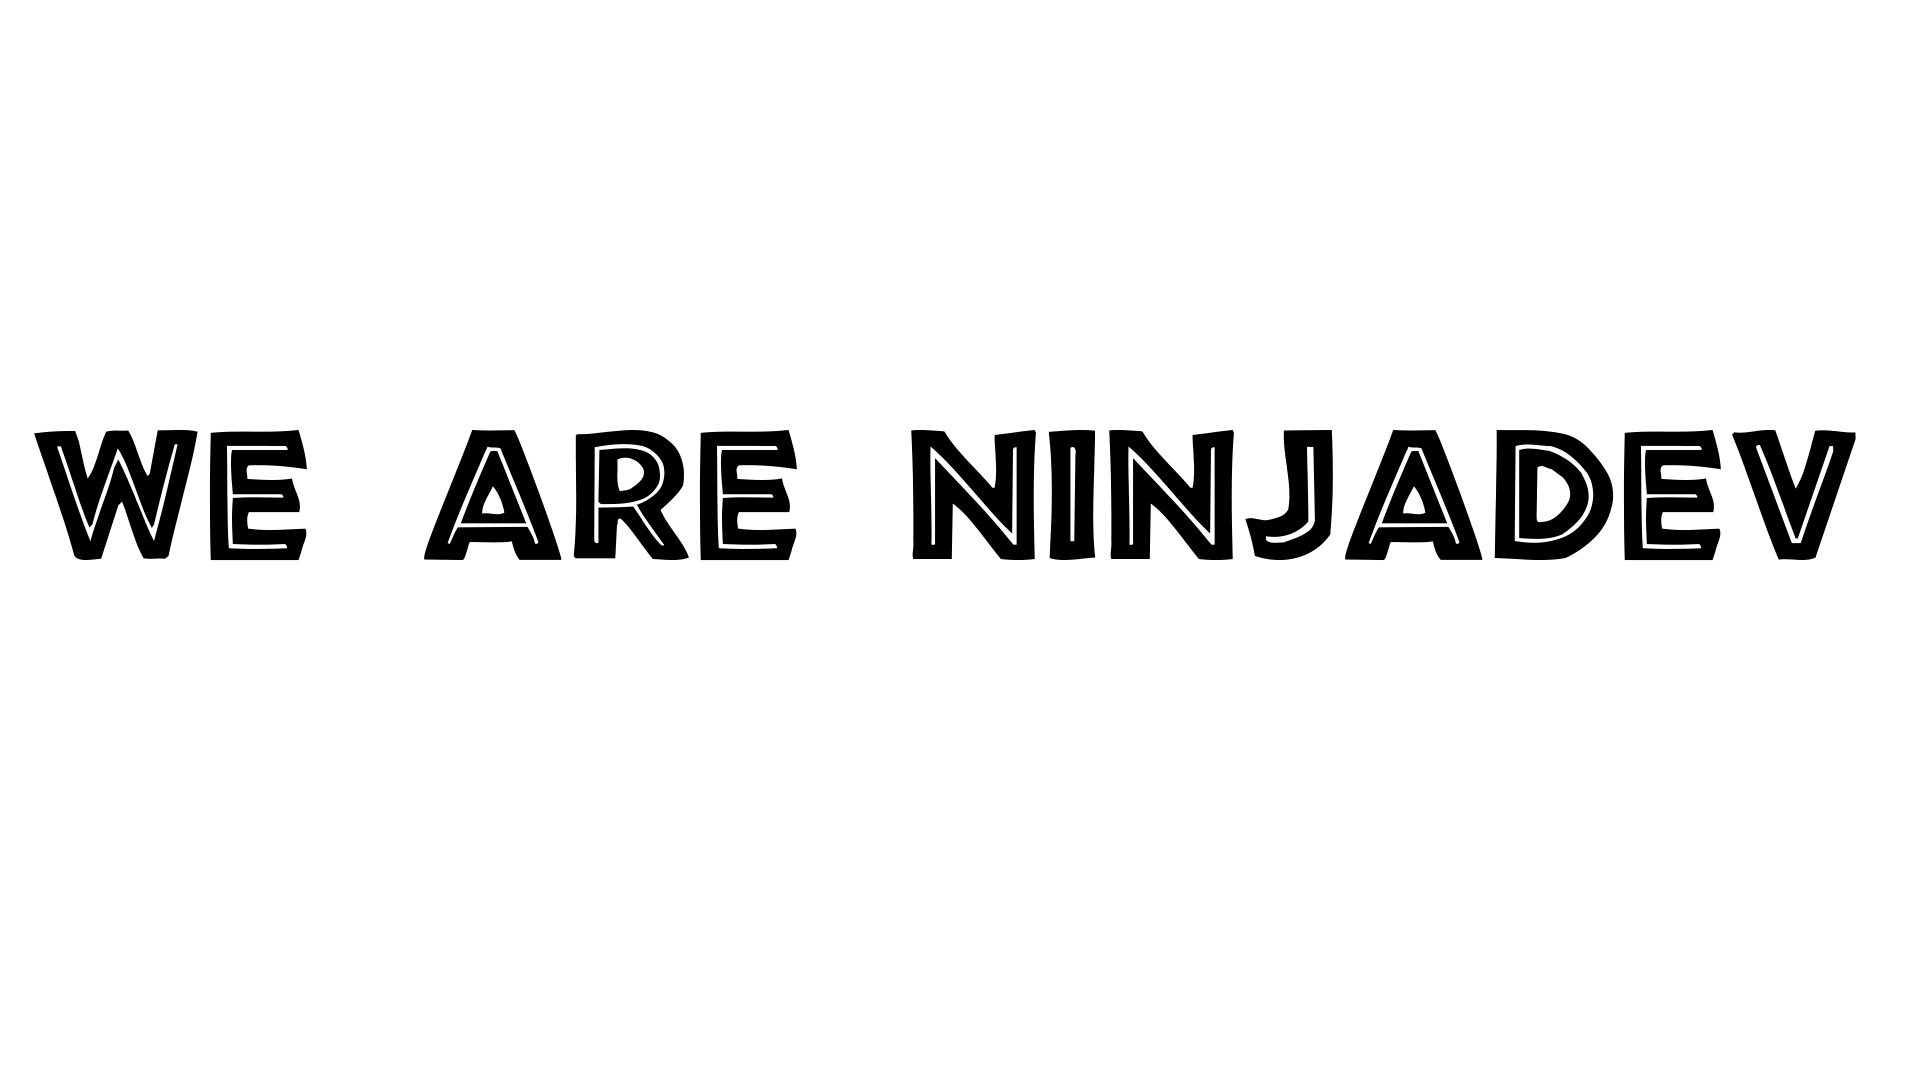
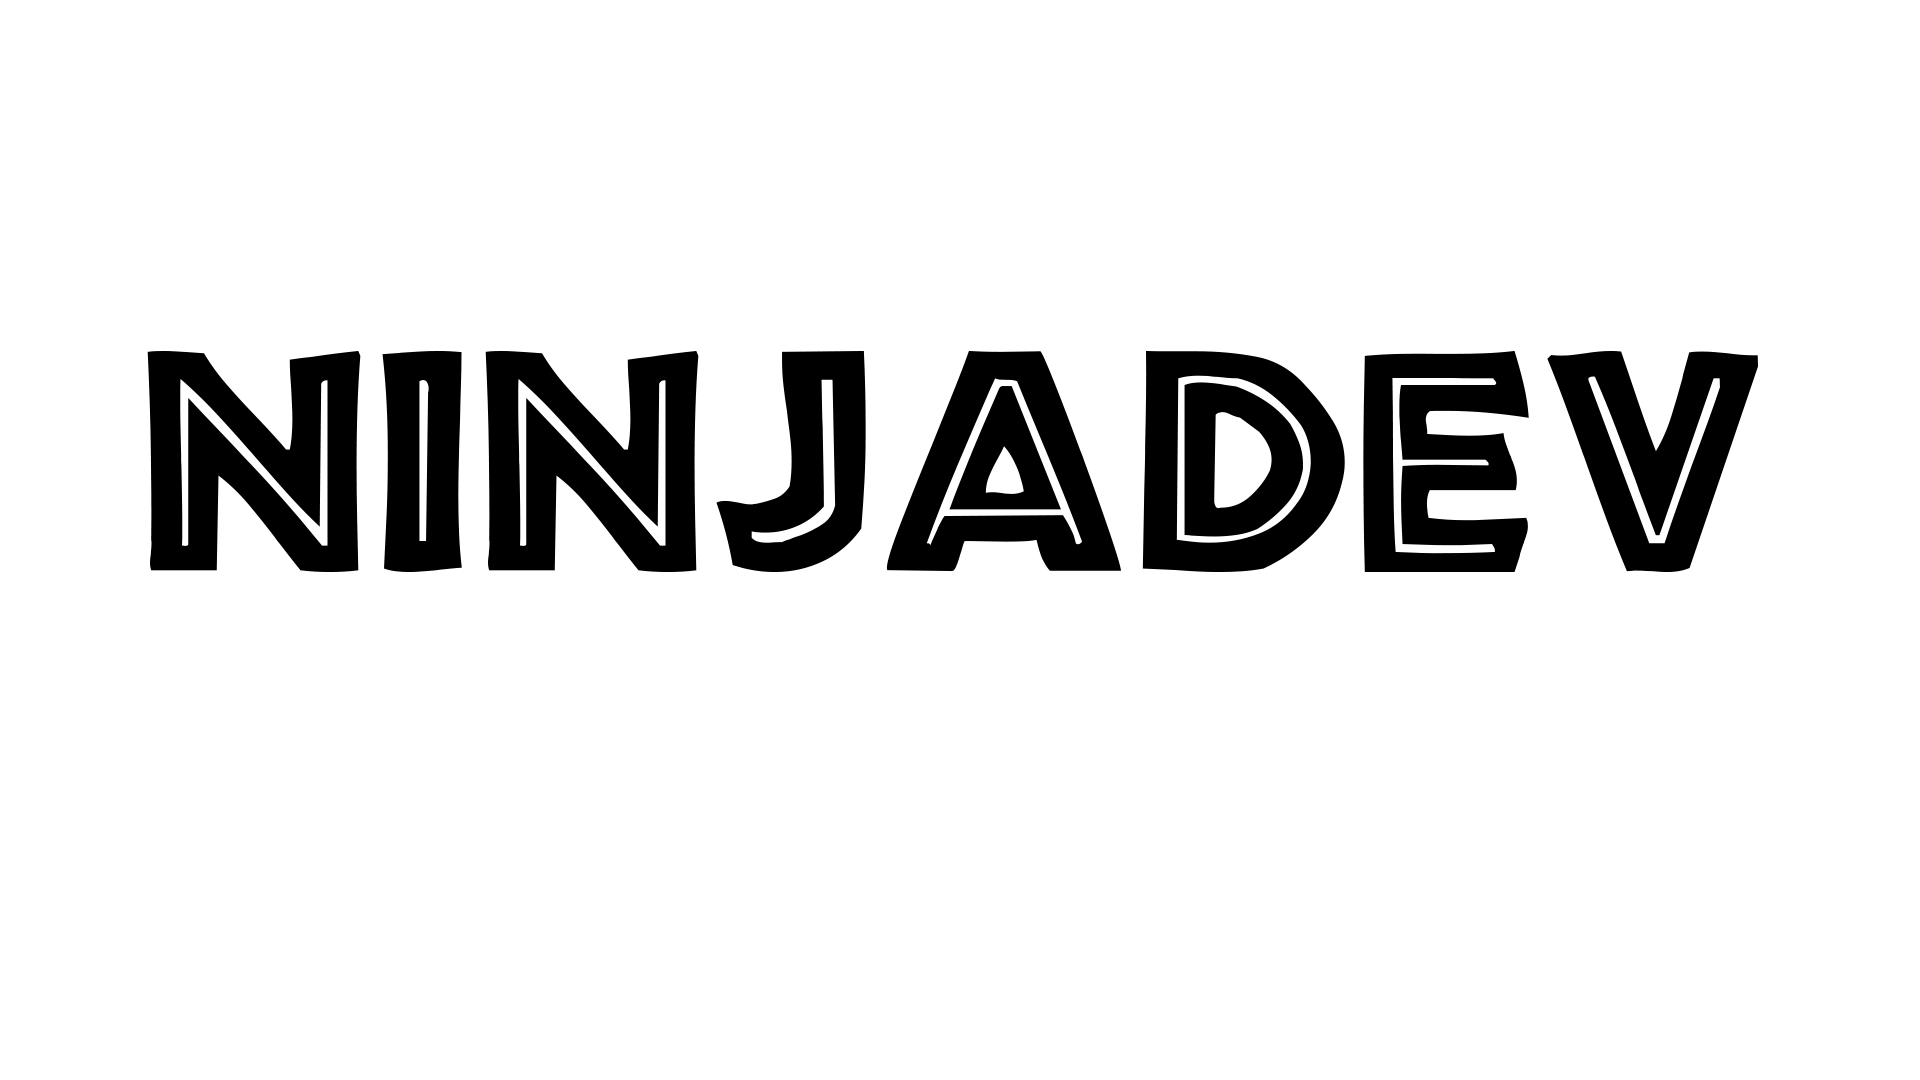
Tweakalize intro, now with correct timings
The introduction is now correct in respect to timings and transitions.

Changed region(s): [[0.0, 0.3056, 0.9688, 0.55]]

diff --git a/src/WallLayer.js b/src/WallLayer.js
@@ -6,6 +6,10 @@ function WallLayer(layer) {
   this.layer = layer;
   this.scene = new THREE.Scene();
   this.camera = new THREE.PerspectiveCamera(45, 16 / 9, 1, 10000);
+  this.cameraZ = 8000;
+  this.cameraY = -750;
+  this.camera.position.z = this.cameraZ;
+  this.camera.position.y = this.cameraY;
   this.renderPass = new THREE.RenderPass(this.scene, this.camera);
   this.fontLoaded = false;
 
@@ -44,28 +48,13 @@ function WallLayer(layer) {
     color: '#473517',
     text: "ninjadev",
     textOptions: {
-      textX: 500,
-      textY: 240
+      textX: 170,
+      textY: 580
     }
   }));
   var pos = { x:2500*(hexLength+0), y:-1300, z:100 };
   this.hexesPosition.push(pos);
-  this.hexesStartPosition.push({ x: pos.x*2, y: pos.y, z: pos.z});
-
-  this.hexes.push(this.createHexagon({
-    index: hexLength-1,
-    radius: 1500,
-    color: '#472823',
-    position: {x:0, y:0, z:0},
-    text: "solskogen",
-    textOptions: {
-      textX: 500,
-      textY: 740
-    }
-  }));
-  pos = { x:2500*(hexLength+1), y:1500, z:100 };
-  this.hexesPosition.push(pos);
-  this.hexesStartPosition.push({ x: pos.x*2, y: pos.y, z: pos.z});
+  this.hexesStartPosition.push({ x: pos.x*1.5, y: pos.y, z: pos.z});
 
   this.hexes.push(this.createHexagon({
     index: hexLength-1,
@@ -74,16 +63,30 @@ function WallLayer(layer) {
     color: '#472D01',
     text: "inakuwa",
     textOptions: {
-      textX: 300,
-      textY: 840
+      textX: 100,
+      textY: 480
     }
   }));
-  pos = { x:2500*(hexLength+2), y:-300, z:100 };
+  pos = { x:2500*(hexLength+1), y:-300, z:100 };
   this.hexesPosition.push(pos);
-  this.hexesStartPosition.push({ x: pos.x*2, y: pos.y, z: pos.z });
+  this.hexesStartPosition.push({ x: pos.x*1.5, y: pos.y, z: pos.z });
 
-  this.hexes[2] = this.hexes.splice(this.hexes.length-2, 1, this.hexes[2])[0];
-  this.hexes[5] = this.hexes.splice(this.hexes.length-3, 1, this.hexes[5])[0];
+  this.hexes.push(this.createHexagon({
+    index: hexLength-1,
+    radius: 1500,
+    position: {x:0, y:0, z:0},
+    color: '#1c6ba0',
+    text: "no-picture",
+    textOptions: {
+      textX: 100,
+      textY: 480
+    }
+  }));
+  pos = { x:2500*(hexLength+3), y:-300, z:100 };
+  this.hexesPosition.push(pos);
+  this.hexesStartPosition.push({ x: pos.x*1.5, y: pos.y, z: pos.z });
+
+  this.hexes[0] = this.hexes.splice(this.hexes.length-3, 1, this.hexes[0])[0];
 
   this.scene.add(this.background); 
   this.scene.add(new THREE.AmbientLight(0x222222));
@@ -158,12 +161,14 @@ WallLayer.prototype.generateTextSprite = function(text, bgColor, textOptions) {
   ctx.fillStyle = bgColor;
   ctx.fillRect(0, 0, size, size);
 
-  var that = this;
-  var imgTexture = Loader.loadTexture('/res/text/' + text + '.png', function() {
-    ctx.drawImage(imgTexture.image, textX, textY, imgTexture.image.width * 0.3, imgTexture.image.height * 0.3);
+  if(text !== "no-picture") {
+    var that = this;
+    var imgTexture = Loader.loadTexture('/res/text/' + text + '.png', function() {
+      ctx.drawImage(imgTexture.image, textX, textY, imgTexture.image.width*0.9, imgTexture.image.height*0.9);
 
-    that.updateTextures();
-  });
+      that.updateTextures();
+    });
+  }
 
   return canvas;
 }
@@ -187,9 +192,35 @@ WallLayer.prototype.update = function(frame, relativeFrame) {
   if(relativeFrame == 1) {
     this.moveHexagons();
   }
-  this.camera.position.z = 6000;
-  this.camera.position.y = -750;
-  this.camera.position.x = relativeFrame*10;
+  if(relativeFrame < 440) {
+    return;
+  }
+
+  if(relativeFrame > 650 && relativeFrame <= 1100) {
+    this.camera.position.x = (relativeFrame - 650)*15;
+  }
+
+  if(relativeFrame > 440 && relativeFrame < 650) {
+    this.camera.position.z = smoothstep(this.cameraZ, 3800, (relativeFrame - 440)/100);
+    this.camera.position.y = smoothstep(this.cameraY, 200, (relativeFrame - 440)/100);
+  }
+
+  window.camera = this.camera;
+  if(relativeFrame > 650 && relativeFrame < 850) {
+    this.camera.position.z = smoothstep(3800, this.cameraZ, (relativeFrame - 650)/100);
+    this.camera.position.y = smoothstep(200, this.cameraY, (relativeFrame - 650)/100);
+  }
+
+  if(relativeFrame > 1000 && relativeFrame < 1300) {
+    this.camera.position.z = smoothstep(this.cameraZ, 3800, (relativeFrame - 1000)/100);
+    this.camera.position.y = smoothstep(this.cameraY, -260, (relativeFrame - 1000)/100);
+    this.camera.position.x = smoothstep(5250, 10000, (relativeFrame - 1000)/100);
+  }
+
+  if(relativeFrame > 1300) {
+    this.camera.position.z = smoothstep(3800, 1500, (relativeFrame - 1300)/100);
+    this.camera.position.x = smoothstep(10000, 15000, (relativeFrame - 1300)/100);
+  }
 
   for(var i = 0; i < this.hexes.length; i++) {
     var hex = this.hexes[i];
